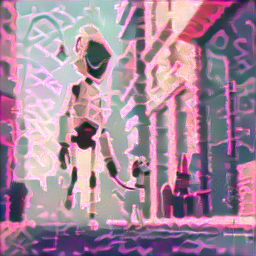
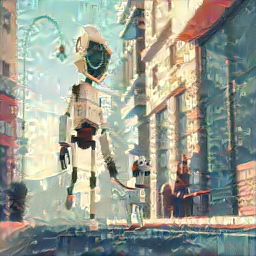
Update the frontend

diff --git a/index.html b/index.html
@@ -322,7 +322,7 @@
             formData.append("style_img", new File([blob], SAMPLE_STYLE_IMAGES[selectedStyleIdx ?? 0].name));
           }
 
-          const response = await fetch("http://127.0.0.1:8000/stylize_img_upload", {
+          const response = await fetch("https://mranjanjena253-nst-api-fastapi.hf.space/stylize_img_upload", {
             method: "POST",
             body: formData
           });
